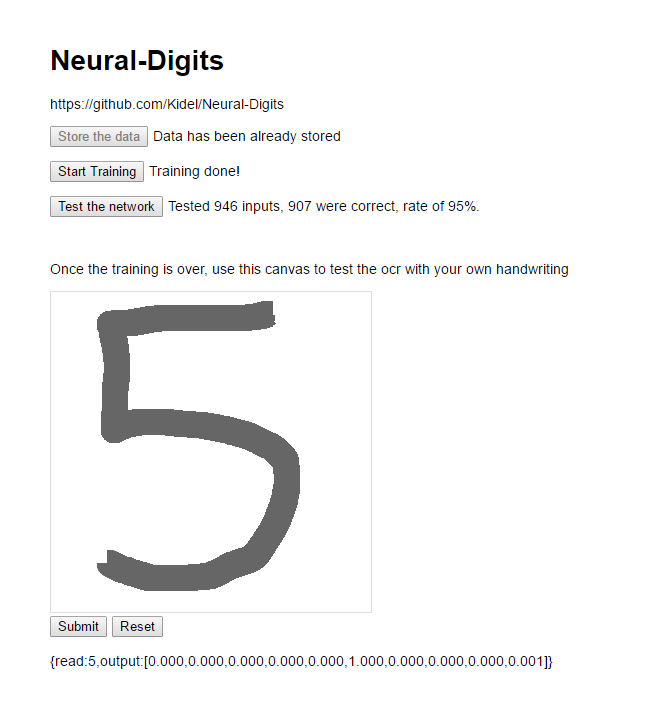
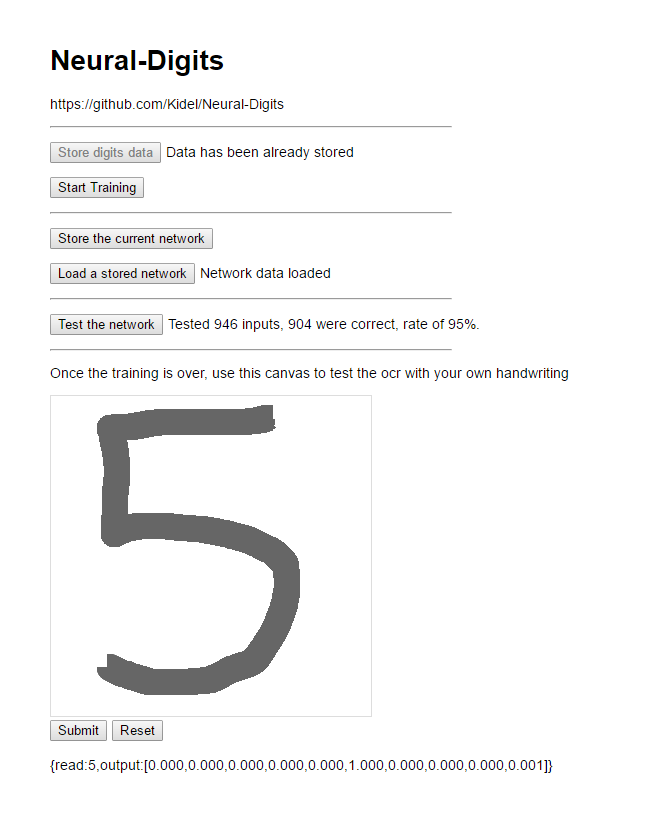
updated index and screenshot

Changed region(s): [[0.0597, 0.0599, 0.8657, 0.5392], [0.0597, 0.5692, 0.8358, 0.9586]]

diff --git a/public/stylesheets/style.css b/public/stylesheets/style.css
@@ -5,6 +5,9 @@ body {
 a {
   color: #00B7FF;
 }
+hr {
+    width: 400px;
+}
 button {
     margin-right: 5px;
 }
